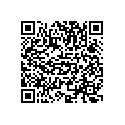
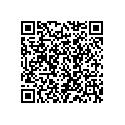
QR Refresh problem solved

Changed region(s): [[0.168, 0.168, 0.84, 0.84], [0.192, 0.264, 0.216, 0.288]]

diff --git a/StudentAttendanceSystem/src/main/java/com/learning/niit_project/controllers/FacultyController.java b/StudentAttendanceSystem/src/main/java/com/learning/niit_project/controllers/FacultyController.java
@@ -54,14 +54,14 @@ public class FacultyController  {
 	IFacultyDAO iFacultyDAO;
 	I_QRdao iQRdao;
 
-	@RequestMapping("/RegisterFaculty")
-	public String regFac()
-	{
-		FacultyModel model=new FacultyModel(101, "Kedar Devrukhkar", "Pass@1232", "FSSE", "TDD", "niit.kedar@gmail.com", 8828097172L);
-		iFacultyDAO.save(model);
-		return "faculty-reg";
-		
-	}
+//	@RequestMapping("/RegisterFaculty")
+//	public String regFac()
+//	{
+//		FacultyModel model=new FacultyModel(101, "Kedar Devrukhkar", "Pass@1232", "FSSE", "TDD", "niit.kedar@gmail.com", 8828097172L);
+//		iFacultyDAO.save(model);
+//		return "faculty-reg";
+//		
+//	}
 	
 	@RequestMapping("/")
 	public String index() {	 
@@ -91,40 +91,31 @@ public class FacultyController  {
 	}
 
 	@RequestMapping(path = "/generate_qr")
-	public String generateQR(QR_Details qr_Details) {
-		try {
-			
-			final ScheduledExecutorService ses = Executors.newSingleThreadScheduledExecutor();
-	        ses.scheduleAtFixedRate(new Runnable() {
-	            @Override
-	            public void run() {
-	                try {
-	                	qr_Details.setCurrentDateTime(new java.util.Date());
-	                	
-	                	String nm=qr_Details.getFacultyName();
-	                	String crse=qr_Details.getCourseName();
-	                	String bat=qr_Details.getBatchCode();
-	                	Date currDt=qr_Details.getCurrentDateTime();
-	                	
-	                	System.out.println(nm);
-	                	System.out.println(crse);
-	                	System.out.println(bat);
-	                	System.out.println(currDt);
+	public String generateQR(QR_Details qr_Details,HttpServletRequest request) {
+			 TimerTask task = new TimerTask() {
+			      @Override
+			      public void run() {
+			    	  qr_Details.setCurrentDateTime(new java.util.Date());
+			    	  System.out.println(qr_Details);
+			    	  try {
 						createQR(qr_Details);
-						
-					} catch (WriterException | IOException e) {
+					} catch (WriterException e) {
 						// TODO Auto-generated catch block
-						e.printStackTrace();
+						System.out.println("WriterException "+e);
+					} catch (IOException e) {
+						// TODO Auto-generated catch block
+						System.out.println("IOException "+e);
 					}
-	            }
-	        }, 0, 1 , TimeUnit.SECONDS);
-			
+			      }
+			    };
+			    Timer timer = new Timer();
+			    long delay = 0;
+			    long intevalPeriod = 5 * 1000; 
+			    // schedules the task to be run in an interval 
+			    timer.scheduleAtFixedRate(task, delay,
+			                                intevalPeriod);
 			 //iQRdao.save(qr_Details);
-		} catch (NullPointerException e) {
-			// TODO Auto-generated catch block
-			System.out.println("Error: " + e);
-		}
-		return "generate-qr";
+			    return "generate-qr";
 	}
 
 
